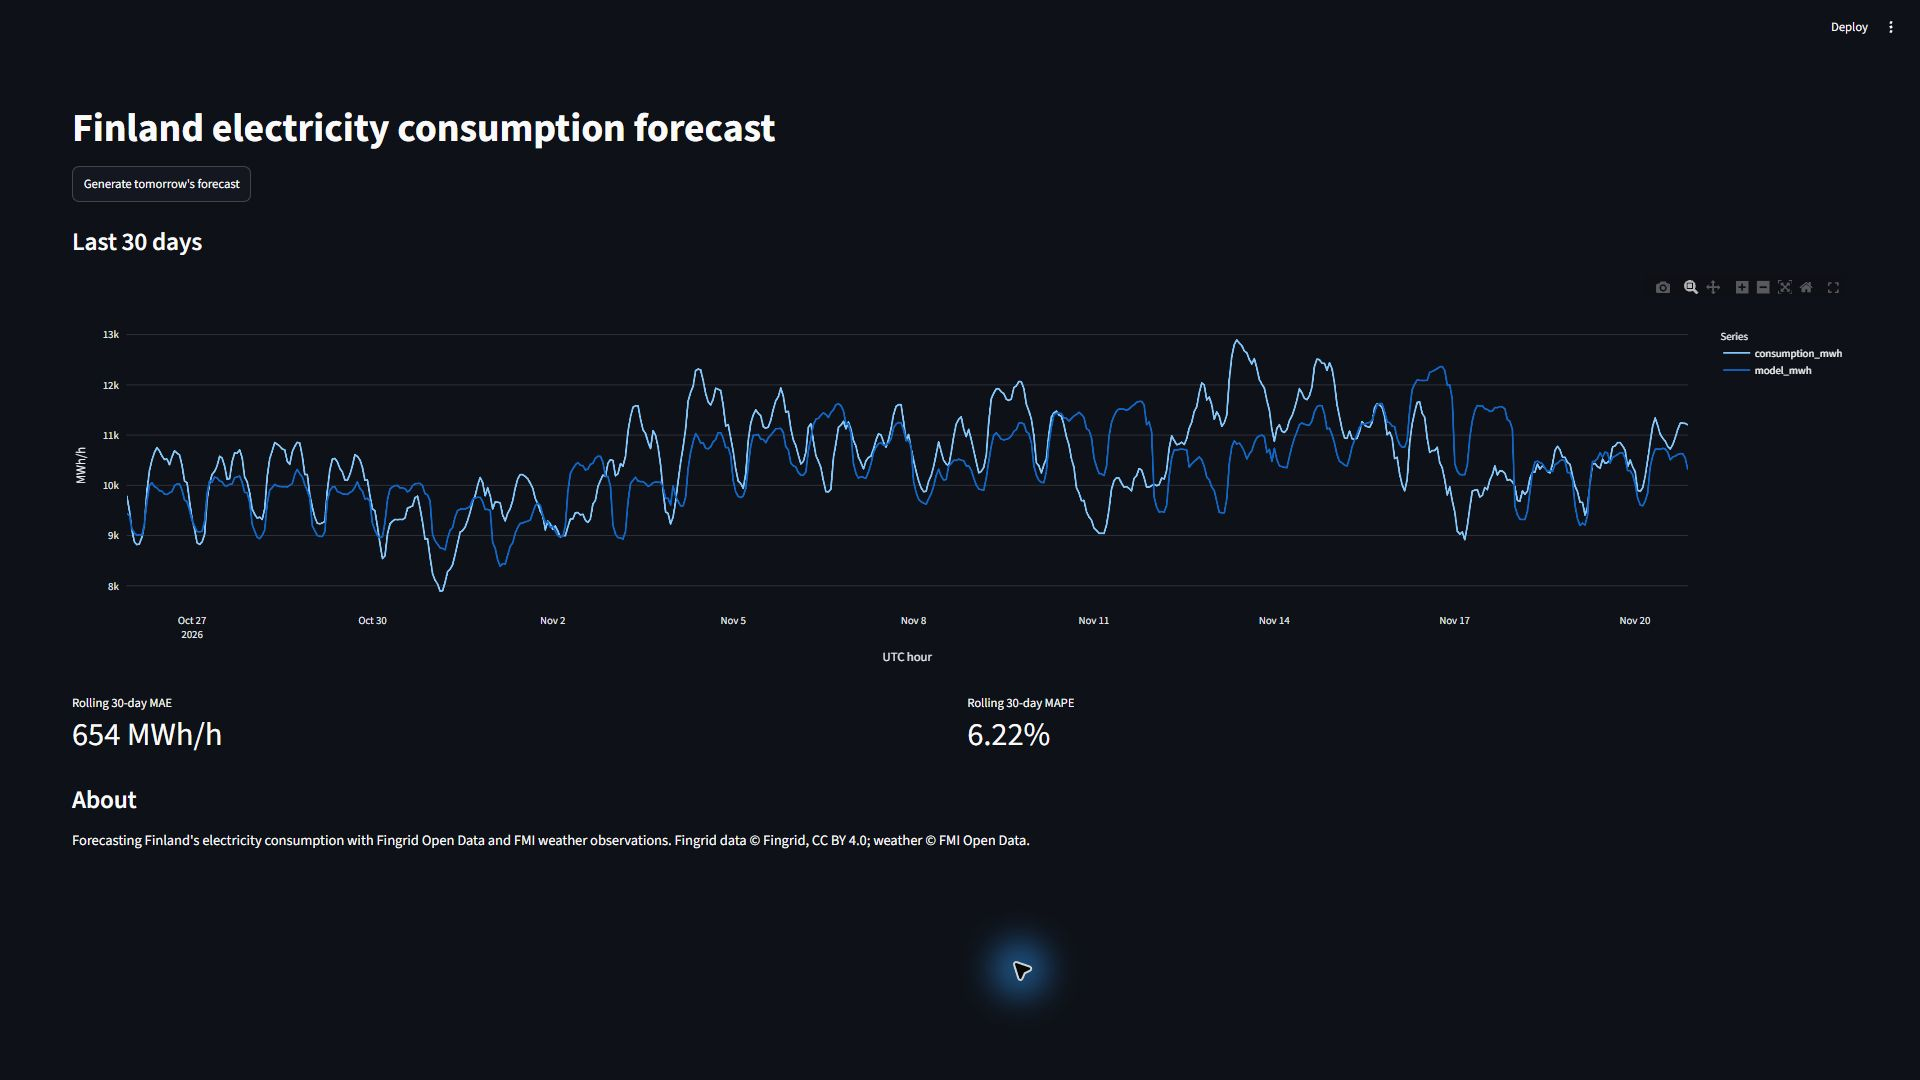
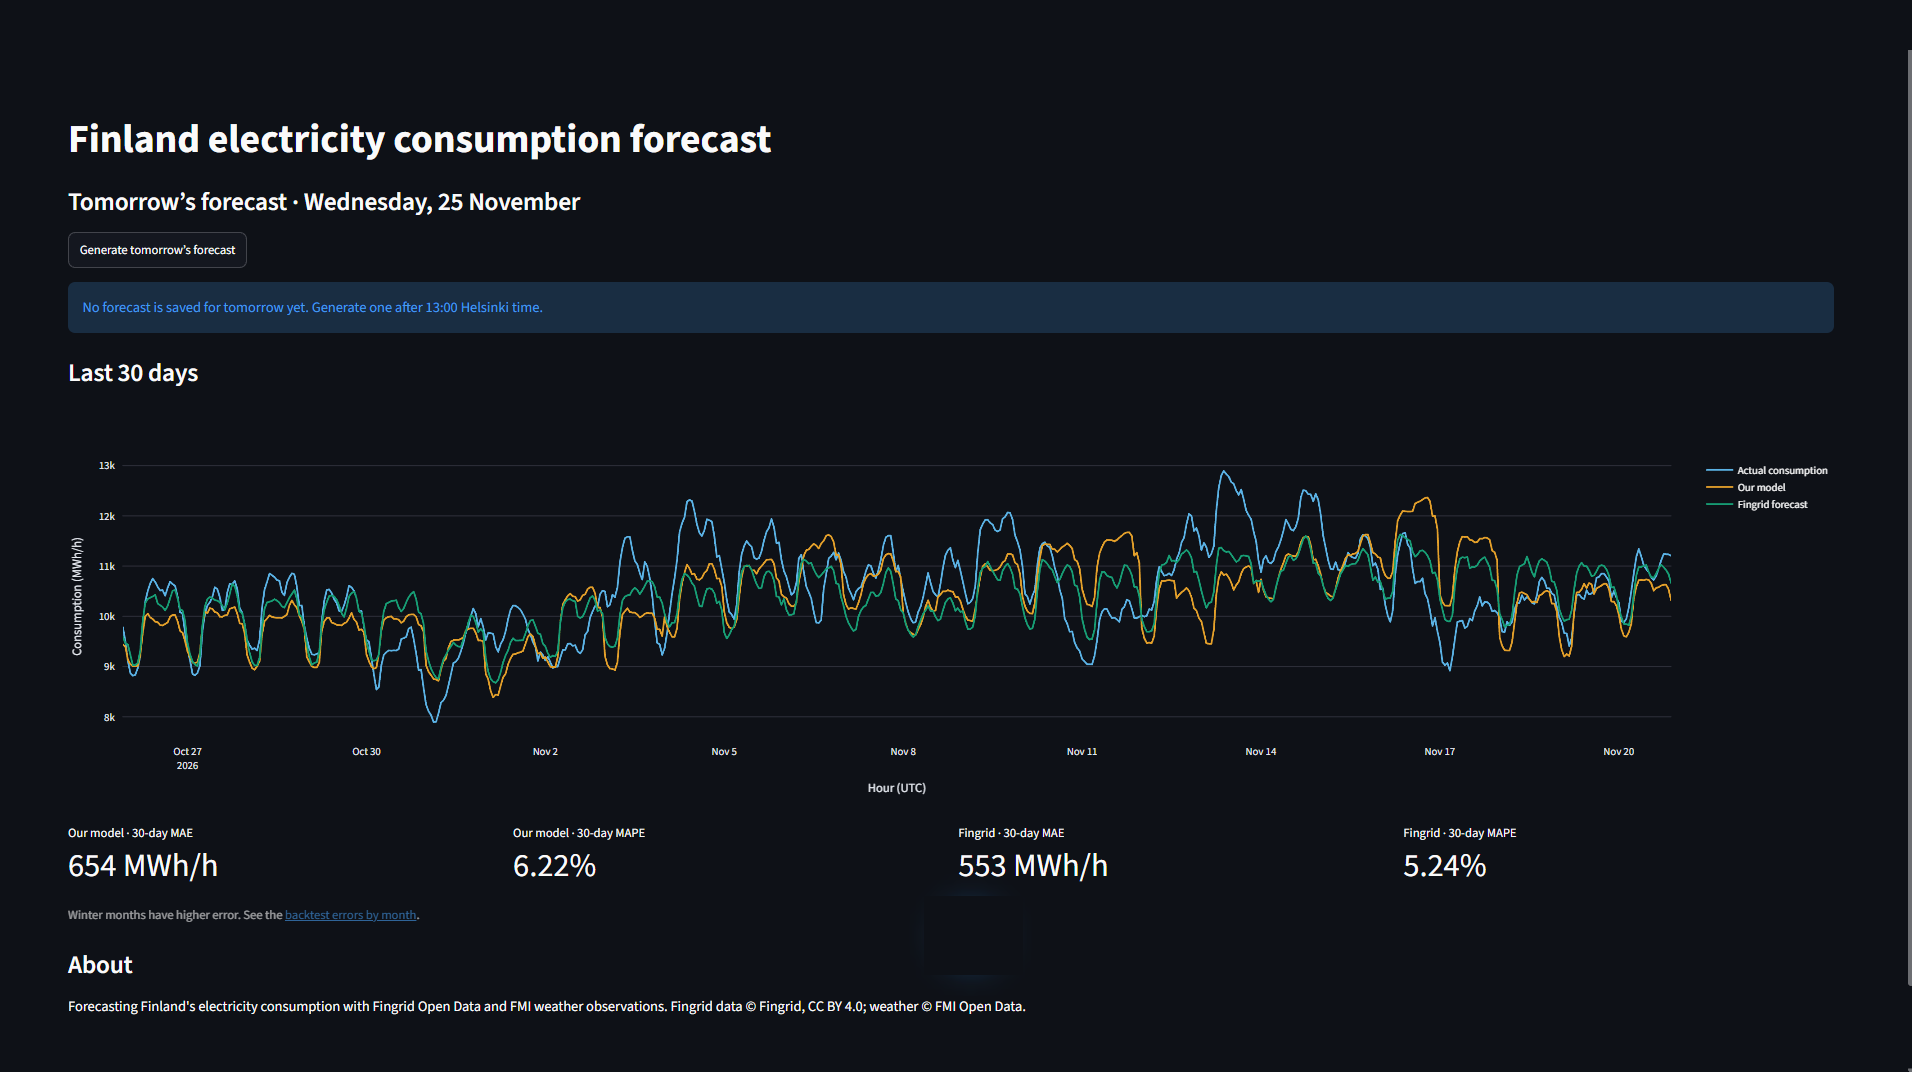
feat: improve forecast dashboard comparisons

diff --git a/dashboard/app.py b/dashboard/app.py
@@ -1,11 +1,15 @@
 """Streamlit dashboard using the same DuckDB tables as the API."""
-# ruff: noqa: E501
 
-from datetime import datetime, timedelta
+from __future__ import annotations
+
+from datetime import date, datetime, time, timedelta
+from pathlib import Path
 from zoneinfo import ZoneInfo
 
 import duckdb
+import pandas as pd
 import plotly.express as px
+import plotly.graph_objects as go
 import streamlit as st
 
 from gridcast.api.service import (
@@ -14,73 +18,173 @@ from gridcast.api.service import (
     ensure_prediction_table,
 )
 
+HELSINKI = ZoneInfo("Europe/Helsinki")
+UTC = ZoneInfo("UTC")
+SERIES_COLORS = {
+    "Actual consumption": "#56B4E9",
+    "Our model": "#E69F00",
+    "Fingrid forecast": "#009E73",
+}
+
+
+def _utc_day_bounds(day: date) -> tuple[datetime, datetime]:
+    """Return one Helsinki calendar day as a UTC half-open interval."""
+    start = datetime.combine(day, time.min, HELSINKI).astimezone(UTC)
+    end = datetime.combine(day + timedelta(days=1), time.min, HELSINKI).astimezone(UTC)
+    return start, end
+
+
+def _read_dashboard_data(
+    db_path: Path, tomorrow: date
+) -> tuple[pd.DataFrame, pd.DataFrame]:
+    """Load latest forecasts and the aligned 30-day history from DuckDB."""
+    start, end = _utc_day_bounds(tomorrow)
+    with duckdb.connect(str(db_path), read_only=True) as connection:
+        forecast = connection.execute(
+            """select target_hour_utc, model_mwh, fingrid_mwh
+            from forecast_predictions
+            where target_hour_utc >= ? and target_hour_utc < ?
+            qualify row_number() over (
+                partition by target_hour_utc order by forecast_origin_utc desc
+            ) = 1
+            order by target_hour_utc""",
+            [start, end],
+        ).fetchdf()
+        history = connection.execute(
+            """with latest_predictions as (
+                select target_hour_utc, model_mwh, fingrid_mwh
+                from forecast_predictions
+                where target_hour_utc >= now() - interval '30 days'
+                qualify row_number() over (
+                    partition by target_hour_utc order by forecast_origin_utc desc
+                ) = 1
+            )
+            select a.hour_utc, a.consumption_mwh,
+                p.model_mwh, p.fingrid_mwh
+            from marts.features a left join latest_predictions p
+                on a.hour_utc = p.target_hour_utc
+            where a.hour_utc >= now() - interval '30 days'
+            order by a.hour_utc"""
+        ).fetchdf()
+    return forecast, history
+
+
+def _line_chart(
+    frame: pd.DataFrame,
+    x_column: str,
+    series: list[tuple[str, str]],
+    x_label: str,
+) -> go.Figure:
+    """Build a line chart with readable series names and fixed colors."""
+    selected = frame[[x_column, *[column for column, _ in series]]].rename(
+        columns={column: label for column, label in series}
+    )
+    chart_data = selected.melt(
+        id_vars=x_column,
+        var_name="series",
+        value_name="consumption_mwh",
+    )
+    figure = px.line(
+        chart_data,
+        x=x_column,
+        y="consumption_mwh",
+        color="series",
+        color_discrete_map=SERIES_COLORS,
+        labels={
+            x_column: x_label,
+            "consumption_mwh": "Consumption (MWh/h)",
+            "series": "",
+        },
+    )
+    figure.update_layout(template="plotly_dark", legend_title_text="")
+    return figure
+
+
 st.set_page_config(page_title="Finland Grid Forecast", layout="wide")
+st.markdown(
+    """<style>
+    [data-testid="stToolbar"], [data-testid="stAppDeployButton"],
+    [data-testid="stDecoration"], #MainMenu, footer {
+        display: none !important;
+    }
+    </style>""",
+    unsafe_allow_html=True,
+)
 st.title("Finland electricity consumption forecast")
 db_path = database_path()
+tomorrow = datetime.now(HELSINKI).date() + timedelta(days=1)
+
+st.subheader(f"Tomorrow’s forecast · {tomorrow:%A, %d %B}")
+if st.button("Generate tomorrow’s forecast"):
+    try:
+        create_next_day_forecast(db_path)
+        st.success("Forecast saved to the shared DuckDB warehouse.")
+    except Exception as error:
+        st.error(f"Unable to generate tomorrow’s forecast: {error}")
+
 try:
     with duckdb.connect(str(db_path)) as connection:
         ensure_prediction_table(connection)
-    if st.button("Generate tomorrow's forecast"):
-        create_next_day_forecast(db_path)
-        st.success("Forecast saved to the shared DuckDB warehouse.")
-    with duckdb.connect(str(db_path), read_only=True) as connection:
-        tomorrow = datetime.now(ZoneInfo("Europe/Helsinki")).date() + timedelta(days=1)
-        start = datetime.combine(
-            tomorrow, datetime.min.time(), ZoneInfo("Europe/Helsinki")
-        ).astimezone(ZoneInfo("UTC"))
-        end = datetime.combine(
-            tomorrow + timedelta(days=1),
-            datetime.min.time(),
-            ZoneInfo("Europe/Helsinki"),
-        ).astimezone(ZoneInfo("UTC"))
-        forecast = connection.execute(
-            """select target_hour_utc, model_mwh,
-            seasonal_naive_mwh, fingrid_mwh from forecast_predictions
-            where target_hour_utc >= ? and target_hour_utc < ? order by target_hour_utc""",
-            [start, end],
-        ).fetchdf()
-        history = connection.execute("""select a.hour_utc, a.consumption_mwh,
-            p.model_mwh from marts.features a left join forecast_predictions p
-            on a.hour_utc=p.target_hour_utc where a.hour_utc >= now()-interval '30 days'
-            order by a.hour_utc""").fetchdf()
-    if not forecast.empty:
-        st.subheader(f"Tomorrow: {tomorrow}")
+    forecast, history = _read_dashboard_data(db_path, tomorrow)
+
+    if forecast.empty:
+        st.info(
+            "No forecast is saved for tomorrow yet. "
+            "Generate one after 13:00 Helsinki time."
+        )
+    else:
         st.plotly_chart(
-            px.line(
+            _line_chart(
                 forecast,
-                x="target_hour_utc",
-                y=["model_mwh", "fingrid_mwh"],
-                labels={
-                    "target_hour_utc": "UTC hour",
-                    "value": "MWh/h",
-                    "variable": "Forecast",
-                },
+                "target_hour_utc",
+                [
+                    ("model_mwh", "Our model"),
+                    ("fingrid_mwh", "Fingrid forecast"),
+                ],
+                "Hour (UTC)",
             ),
             use_container_width=True,
         )
+
     st.subheader("Last 30 days")
     st.plotly_chart(
-        px.line(
+        _line_chart(
             history,
-            x="hour_utc",
-            y=["consumption_mwh", "model_mwh"],
-            labels={"hour_utc": "UTC hour", "value": "MWh/h", "variable": "Series"},
+            "hour_utc",
+            [
+                ("consumption_mwh", "Actual consumption"),
+                ("model_mwh", "Our model"),
+                ("fingrid_mwh", "Fingrid forecast"),
+            ],
+            "Hour (UTC)",
         ),
         use_container_width=True,
     )
-    scored = history.dropna(subset=["model_mwh", "consumption_mwh"])
-    if not scored.empty:
-        error = (scored.consumption_mwh - scored.model_mwh).abs()
-        c1, c2 = st.columns(2)
-        c1.metric("Rolling 30-day MAE", f"{error.mean():.0f} MWh/h")
-        c2.metric(
-            "Rolling 30-day MAPE",
-            f"{(error / scored.consumption_mwh).mean() * 100:.2f}%",
+
+    aligned = history.dropna(subset=["consumption_mwh", "model_mwh", "fingrid_mwh"])
+    if aligned.empty:
+        st.info("Rolling comparisons appear when actuals and both forecasts overlap.")
+    else:
+        actual = aligned.consumption_mwh
+        model_error = (actual - aligned.model_mwh).abs()
+        fingrid_error = (actual - aligned.fingrid_mwh).abs()
+        model_mape = (model_error / actual).mean() * 100
+        fingrid_mape = (fingrid_error / actual).mean() * 100
+        metrics = st.columns(4)
+        metrics[0].metric("Our model · 30-day MAE", f"{model_error.mean():.0f} MWh/h")
+        metrics[1].metric("Our model · 30-day MAPE", f"{model_mape:.2f}%")
+        metrics[2].metric("Fingrid · 30-day MAE", f"{fingrid_error.mean():.0f} MWh/h")
+        metrics[3].metric("Fingrid · 30-day MAPE", f"{fingrid_mape:.2f}%")
+        st.caption(
+            "Winter months have higher error. See the "
+            "[backtest errors by month](https://github.com/omerahmed8081/finland-grid-forecast/blob/main/reports/backtest.md)."
         )
 except Exception as error:
     st.error(f"Unable to read the forecast warehouse: {error}")
 
 st.markdown("### About")
 st.write(
-    "Forecasting Finland's electricity consumption with Fingrid Open Data and FMI weather observations. Fingrid data © Fingrid, CC BY 4.0; weather © FMI Open Data."
+    "Forecasting Finland's electricity consumption with Fingrid Open Data and "
+    "FMI weather observations. Fingrid data © Fingrid, CC BY 4.0; "
+    "weather © FMI Open Data."
 )

diff --git a/README.md b/README.md
@@ -12,9 +12,9 @@ Day-ahead forecasting for Finland’s hourly electricity consumption using Fingr
 |---|---:|---:|---:|
 | Leakage-safe LightGBM | 486.9 | 665.3 | 4.58% |
 | Seasonal naive | 681.7 | 915.5 | 6.57% |
-| Fingrid published forecast | **327.3** | **425.3** | **3.24%** |
+| Fingrid published forecast | 327.3 | 425.3 | 3.24% |
 | Actual-weather oracle scenario (upper bound) | 421.7 | 551.7 | 4.05% |
-| Fingrid residual correction (separate experiment) | 317.7 | 411.6 | 3.17% |
+| **Fingrid residual correction (separate experiment)** | **317.7** | **411.6** | **3.17%** |
 
 The leakage-safe LightGBM remains behind raw Fingrid: it uses load history, calendar values, and only weather available at issue time, while Fingrid uses its own weather forecasts and operational forecasting process. The separate residual correction did not worsen MAE, RMSE, or MAPE on the final six-month pre-holdout validation window (229.4 / 292.7 / 2.59% raw vs. 223.4 / 285.2 / 2.54% corrected). On the frozen holdout it scored 317.7 / 411.6 / 3.17%, compared with raw Fingrid’s 327.3 / 425.3 / 3.24%; this gain is not a guarantee of future improvement. The oracle uses actual target-day weather and is not deployable; its 13.4% MAE reduction is an upper-bound scenario, not a promise of forecast-weather performance. See [the full backtest](reports/backtest.md) for methodology, validation results, error breakdowns, and limits.
 
